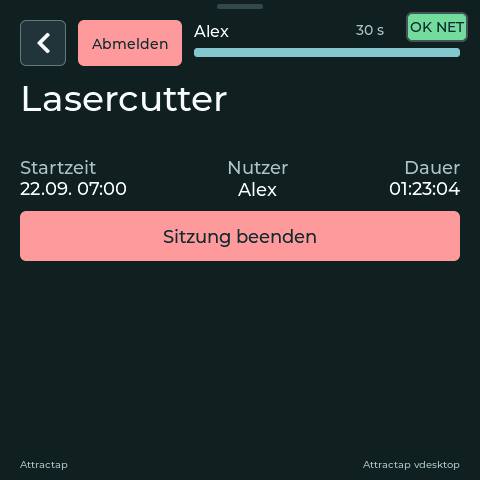
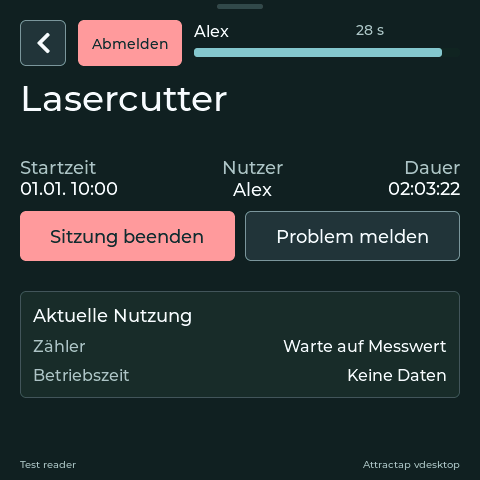
docs(attractap): show where "Report a problem" sits on the reader

diff --git a/docs/de/attractap/using-the-reader.md b/docs/de/attractap/using-the-reader.md
@@ -86,9 +86,9 @@ Energiewerte benötigen eine eingerichtete Verbrauchsmessung; die Betriebszeit b
 3. Fragt der Leser, ob die Maschine in Ordnung ist, beantworten Sie die Frage (siehe unten).
 4. Füllen Sie gegebenenfalls das Formular zum Nutzungsende aus und warten Sie, bis das Display das Ende der Nutzung bestätigt.
 
-![Maschinendetails mit Nutzer, Startzeit, Dauer und der Schaltfläche Sitzung beenden](../../_media/attractap/usage-details.png)
+![Maschinendetails mit Nutzer, Startzeit, Dauer, den Schaltflächen Sitzung beenden und Problem melden nebeneinander und der aktuellen Nutzung](../../_media/attractap/usage-details.png)
 
-_Mit dem Zurück-Pfeil gelangen Sie wieder zur Ressourcenliste. Beim Wechsel zwischen Liste und Details bleiben Sie angemeldet._
+_Mit dem Zurück-Pfeil gelangen Sie wieder zur Ressourcenliste. Beim Wechsel zwischen Liste und Details bleiben Sie angemeldet. **Problem melden** erscheint nur, wenn Sie [ein Problem melden](#ein-problem-melden) dürfen; sonst nimmt **Sitzung beenden** die ganze Breite ein._
 
 > [!IMPORTANT]
 > **Abmelden** beendet Ihre Anmeldung am Leser. Eine laufende Maschinennutzung wird dadurch **nicht** beendet. Nutzen Sie **Stop** oder **Sitzung beenden**, wenn Sie mit der Maschine fertig sind.
@@ -122,7 +122,10 @@ Die Gerätebeschriftungen bleiben vorerst deutsch, einschließlich **Bis bald!**
 Sie können jederzeit ein Problem melden, egal ob eine Sitzung läuft, und auch während die Ressource gewartet wird:
 
 1. Melden Sie sich mit Ihrer Karte an und tippen Sie auf den Namen der Ressource, um ihre Details zu öffnen.
-2. Tippen Sie unten auf **Problem melden**.
+2. Tippen Sie auf **Problem melden**. Wo die Schaltfläche steht, hängt davon ab, was Sie tun können:
+   - Bei einer Maschine mit einer Sitzung, die Sie beenden können, steht sie neben **Sitzung beenden** beziehungsweise neben der Schaltfläche zum Beenden einer fremden Sitzung.
+   - Bei einer Tür steht sie direkt unter den Tür-Schaltflächen.
+   - Sonst, etwa ohne Sitzung zum Beenden oder ohne Zugang zur Ressource, steht sie unten in den Details.
 3. Beschreiben Sie das Problem (3 bis 500 Zeichen) und tippen Sie auf **Senden**.
 
 Der Leser bestätigt mit **Wartungsteam benachrichtigt** oder zeigt **Meldung nicht gesendet** auf der Schaltfläche, damit Sie es erneut versuchen können. Ihr Text bleibt erhalten: Er wird beim nächsten Öffnen der Problemmeldung oder des Grunds nach **Wartung nötig** an derselben Ressource wieder angeboten, bis er gesendet ist oder Sie **Abbrechen** tippen. Die Taste zum Ausblenden der Tastatur blendet nur die Tastatur aus; tippen Sie auf das Textfeld, um sie wieder einzublenden. Die Schaltfläche erscheint nur mit dem Lizenzmodul maintenance, nur bei Ressourcen, die Sie sehen dürfen, und nur, wenn Sie die Wartung der Ressource nicht selbst verwalten dürfen. Attractap-Lite-Reader haben keinen Bildschirm und bieten weder die Schaltfläche noch die Frage.

diff --git a/docs/en/attractap/using-the-reader.md b/docs/en/attractap/using-the-reader.md
@@ -86,9 +86,9 @@ Energy readings require configured metering; operating time requires operating-s
 3. If the reader asks whether the machine is OK, answer it (see below).
 4. Complete any required end-of-use form and wait until the display confirms that the usage has ended.
 
-![Machine details showing the user, start time, duration and Sitzung beenden button](../../_media/attractap/usage-details.png)
+![Machine details showing the user, start time, duration, the Sitzung beenden and Problem melden buttons side by side, and the current usage](../../_media/attractap/usage-details.png)
 
-_The back arrow returns to the resource list. You remain signed in when you move between the list and details._
+_The back arrow returns to the resource list. You remain signed in when you move between the list and details. **Problem melden** (Report a problem) appears only when you can [report a problem](#report-a-problem); otherwise **Sitzung beenden** spans the full width._
 
 > [!IMPORTANT]
 > **Abmelden** (Sign out) ends your sign-in on the reader. It does **not** stop machine usage. Use **Stop** or **Sitzung beenden** when you have finished using a machine.
@@ -122,7 +122,10 @@ The device currently uses German labels, including **Bis bald!**. Future English
 You can report a problem at any time, whether or not a session is running and even while the resource is under maintenance:
 
 1. Sign in with your card and tap the resource's name to open its details.
-2. Tap **Problem melden** (Report a problem) at the bottom.
+2. Tap **Problem melden** (Report a problem). Where it is depends on what you can do:
+   - On a machine with a session you can end, it is next to **Sitzung beenden** (End session), or next to the button that ends another person's session.
+   - On a door, it is directly below the door buttons.
+   - Otherwise, for example when there is no session to end or you cannot use the resource, it is at the bottom of the details.
 3. Describe the problem (3 to 500 characters) and tap **Senden** (Send).
 
 The reader confirms with **Wartungsteam benachrichtigt** (Maintainers have been notified), or shows **Meldung nicht gesendet** (Report not sent) on the button so you can try again. The text you typed is kept: it is offered again the next time you open the problem report or the reason after **Wartung nötig** on the same resource, until it was sent or you tap **Abbrechen** (Cancel). The keyboard's hide key only hides the keyboard; tap the text field to bring it back. The button appears only with the maintenance license module, only on resources you can see, and only if you cannot manage the resource's maintenance yourself. Attractap Lite readers have no screen, so they have neither the button nor the question.
